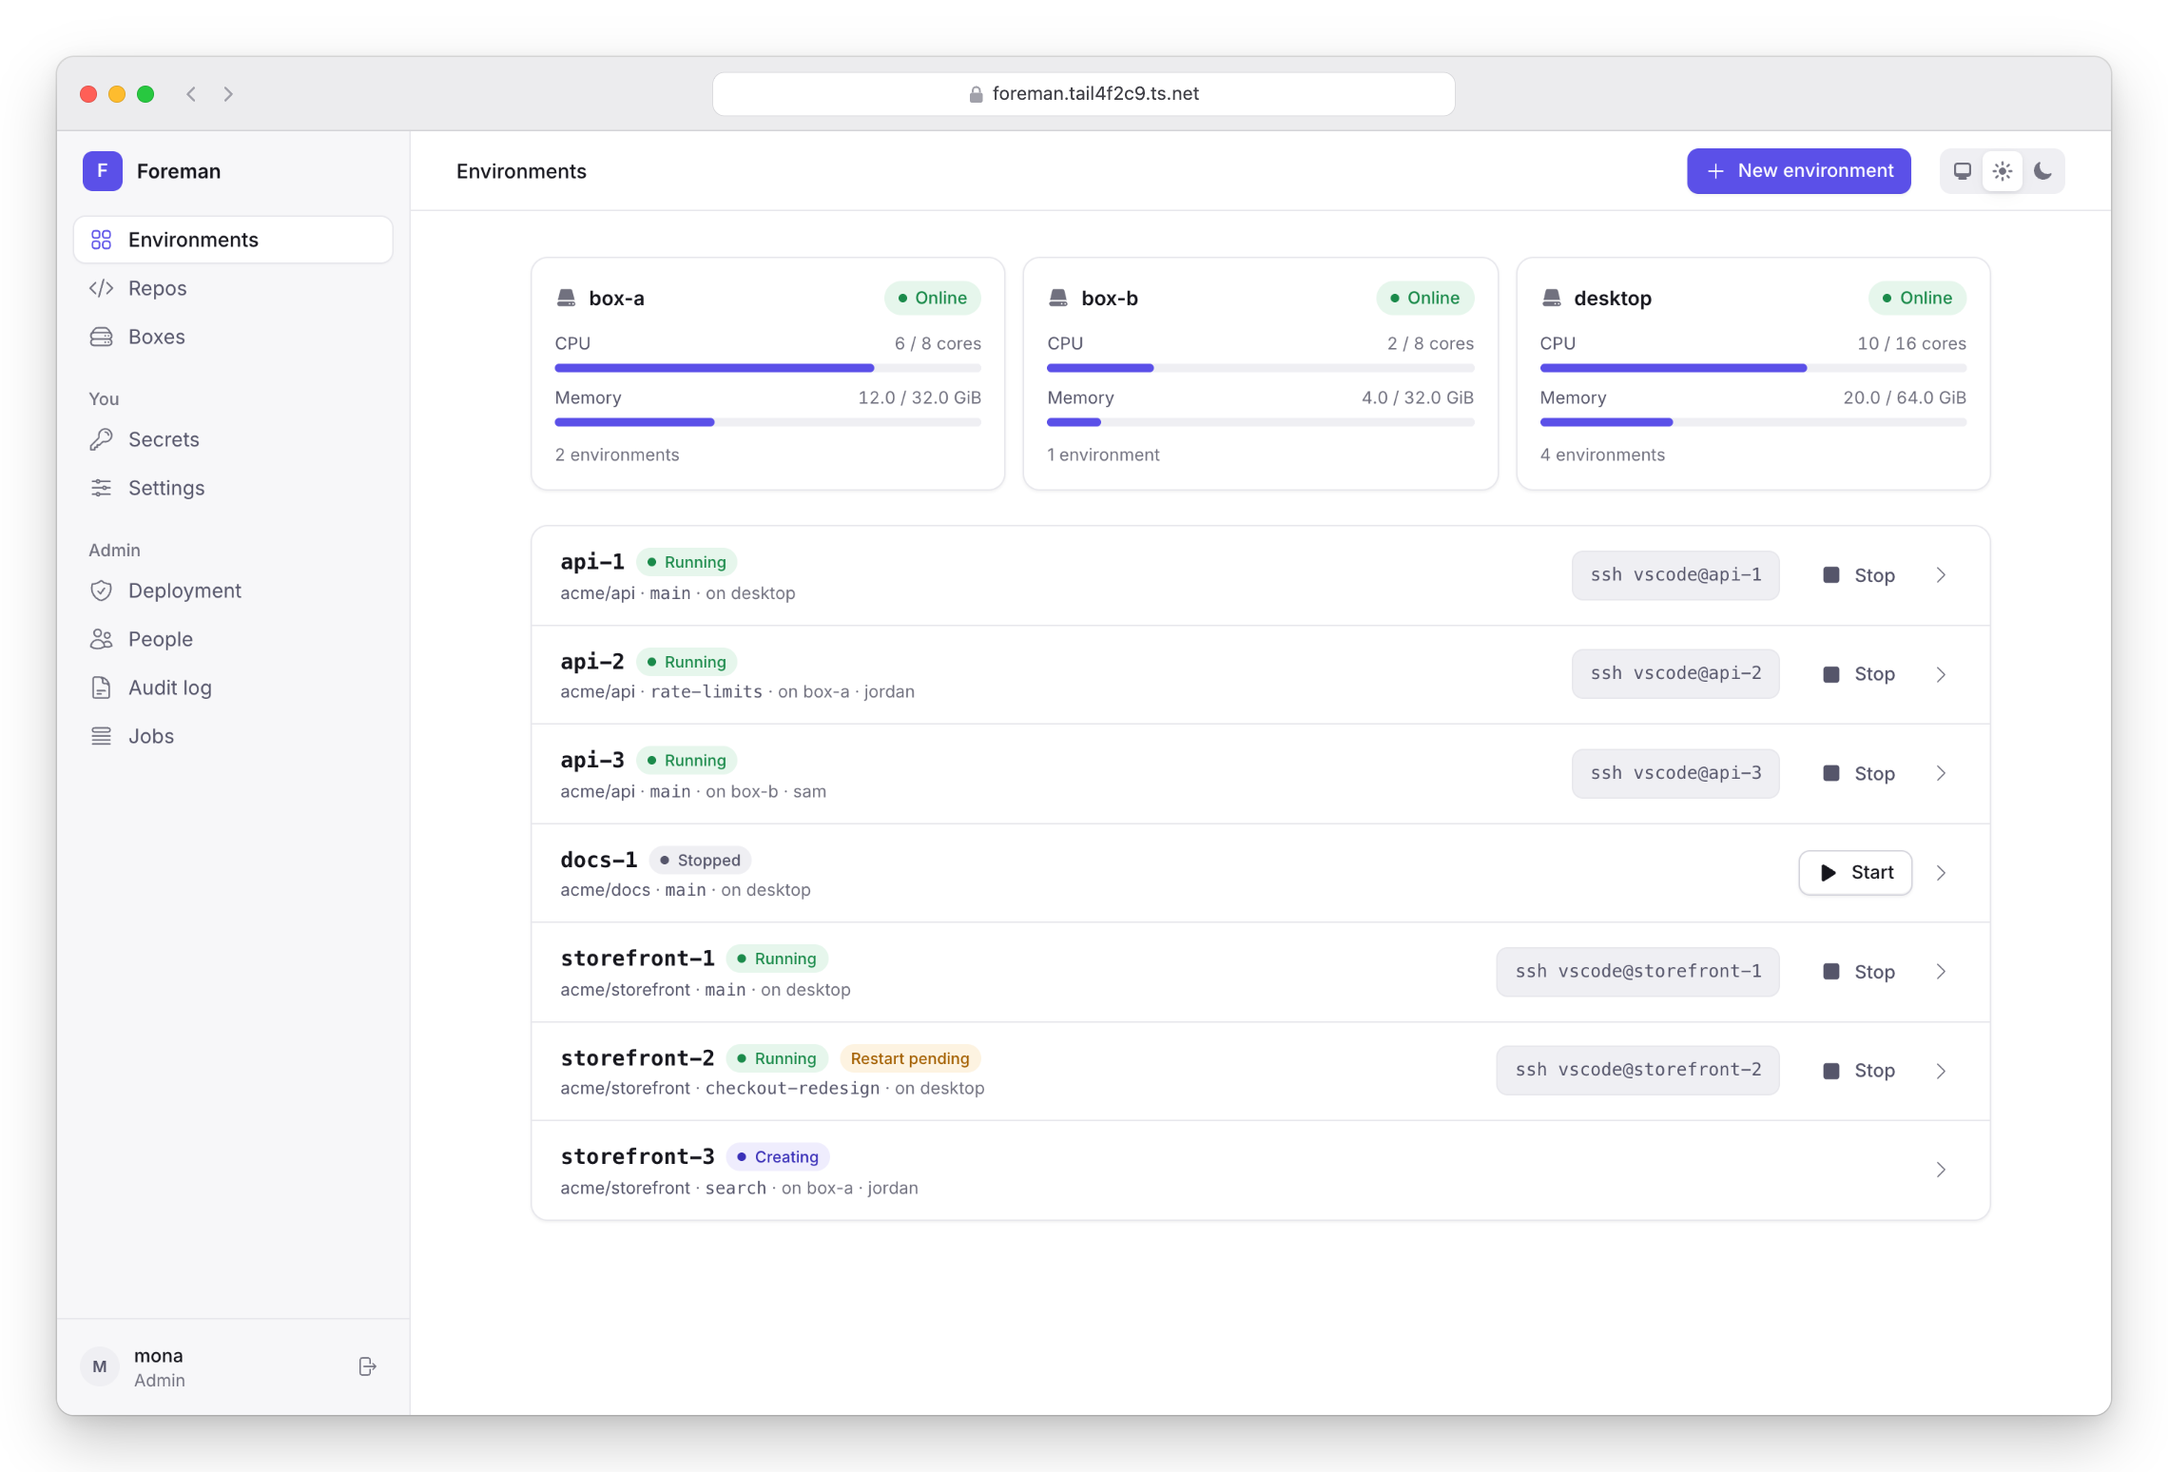
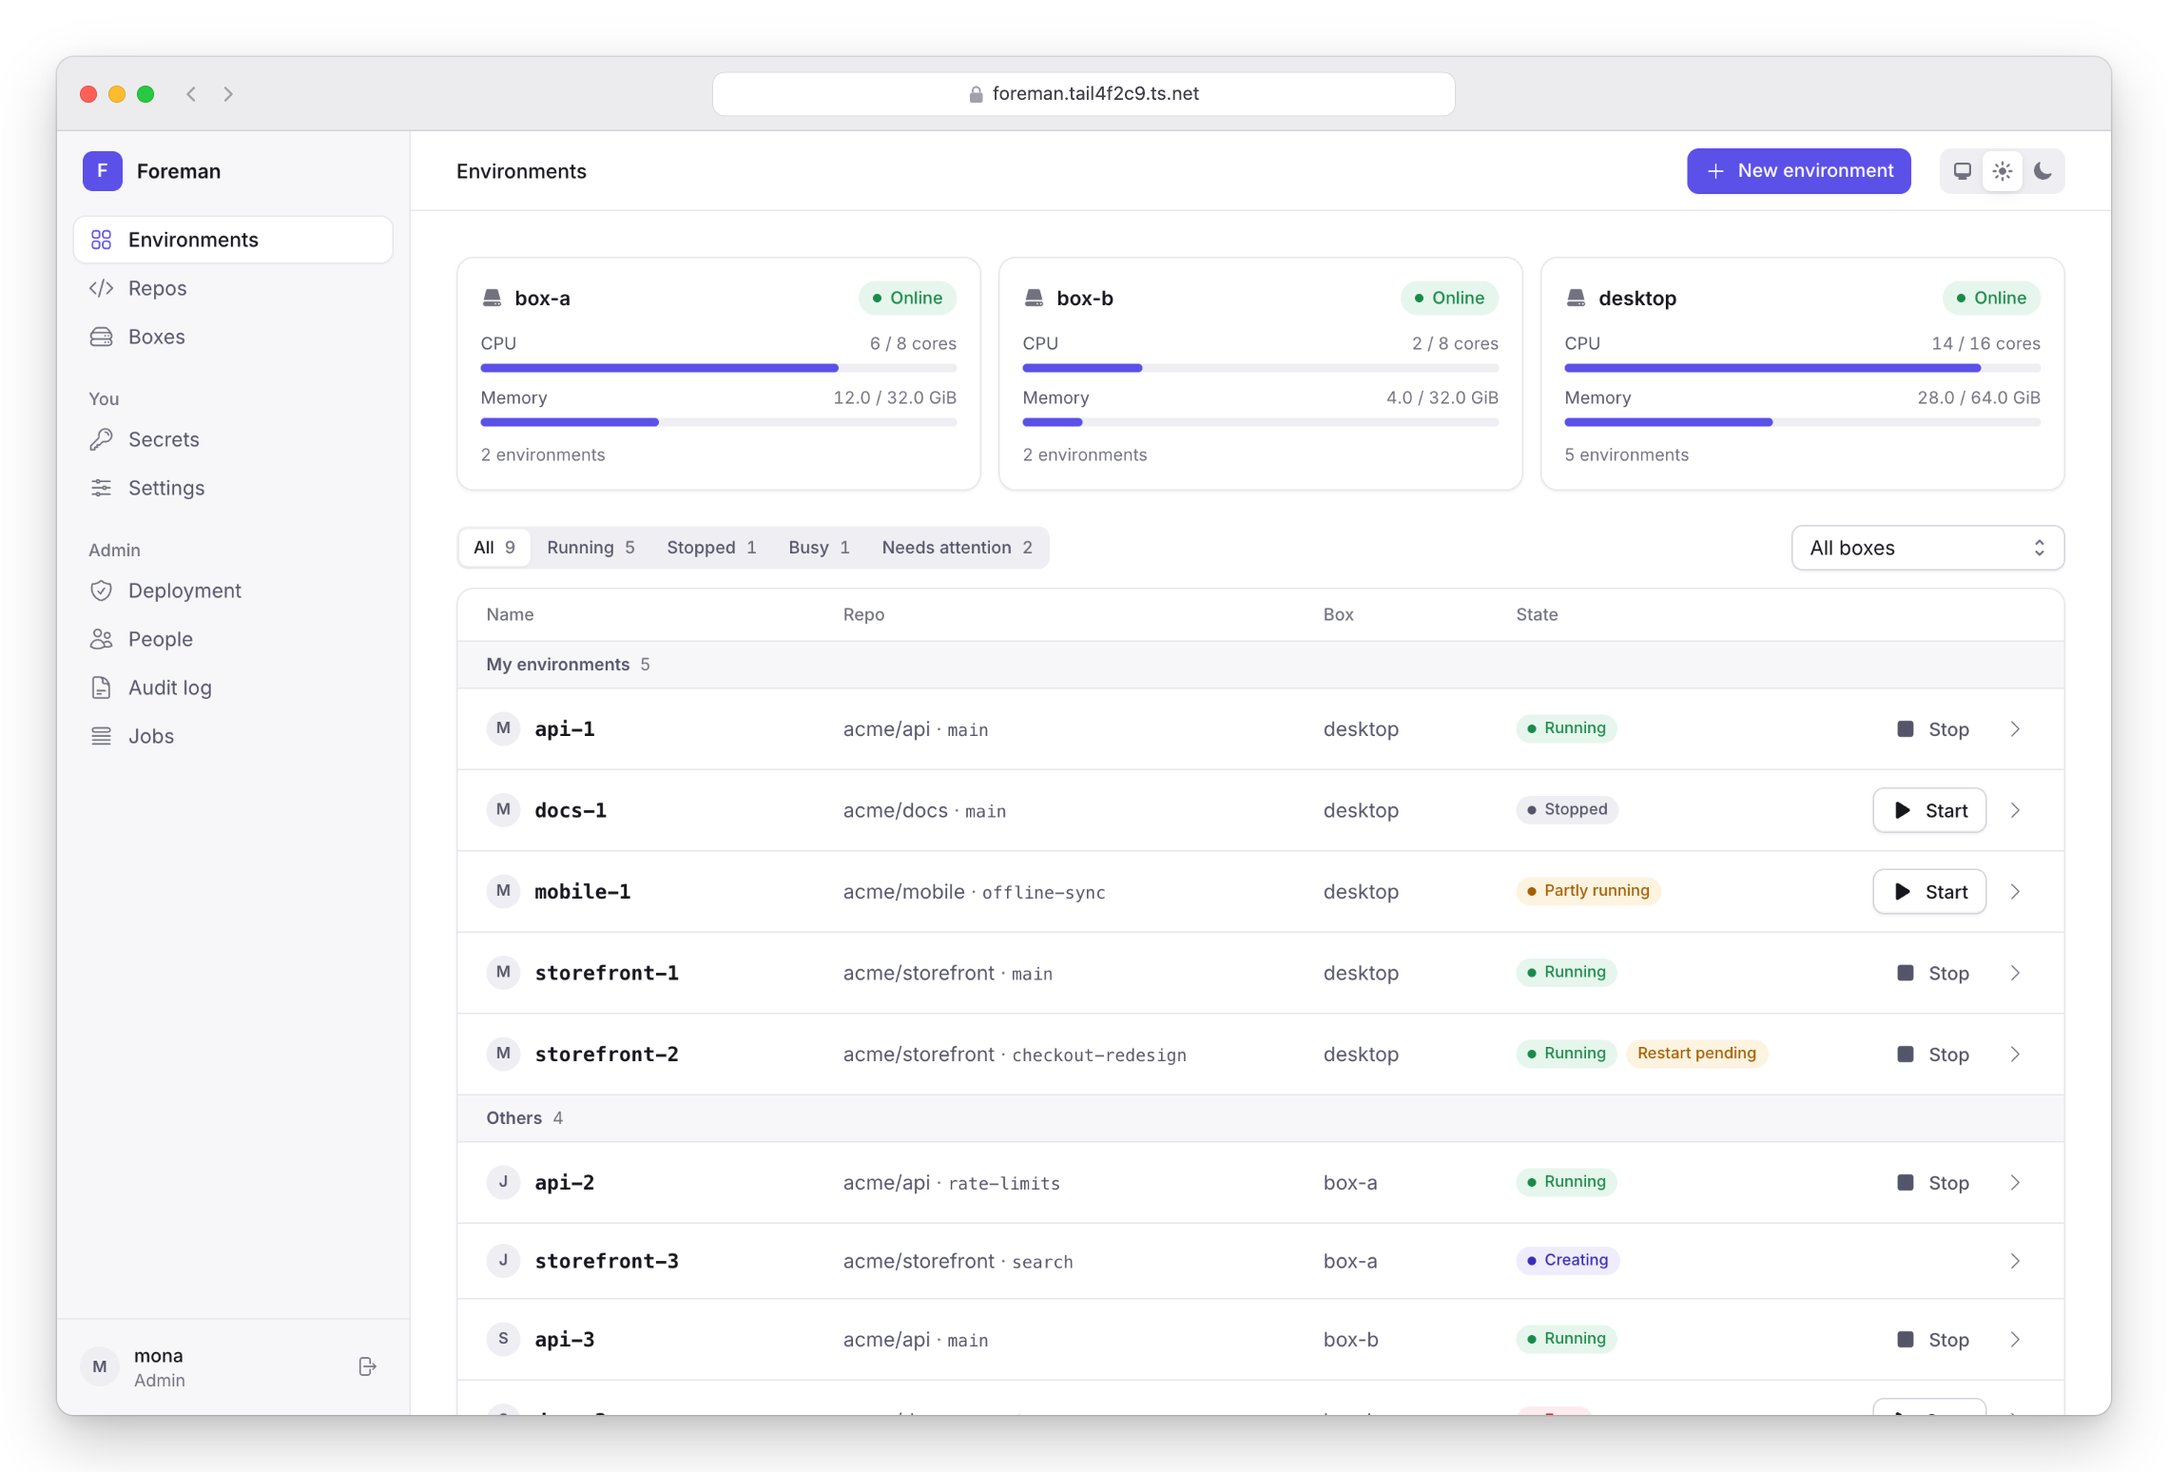
Refresh the README and its screenshots
The screenshots show the new environment list and the environment
page's Actions menu. The demo turns the update check off so they don't
carry an update banner.

The README reads as prose now, without the mermaid diagram, the layout
section or the development notes. Those notes move to
docs/development.md.

diff --git a/README.md b/README.md
@@ -1,93 +1,104 @@
 # Foreman
 
-A self-hosted replacement for GitHub Codespaces. Pick a repo with a
-compose-based devcontainer, pick one of your own machines, and Foreman
-clones it, builds the devcontainer, delivers its secrets and joins it to
-your tailnet. Run as many copies of a repo side by side as you like;
-nothing publishes ports.
+Foreman is a self-hosted stand-in for GitHub Codespaces. You point it at a
+repo with a compose-based devcontainer and one of your own machines. It
+clones the repo there, builds the devcontainer, hands it its secrets and
+puts it on your tailnet. Run as many copies of the same repo side by side
+as you like. None of them publish a port.
 
 <picture>
   <source media="(prefers-color-scheme: dark)" srcset="docs/images/environments-dark.png">
-  <img alt="The Environments page: three boxes with CPU and memory bars, and seven environments across them, running, stopped, creating, and one waiting on a restart" src="docs/images/environments-light.png">
+  <img alt="The Environments page: three boxes with CPU and memory bars, a state filter and a box filter, and nine environments in a table, the signed-in user's under My environments and the rest under Others, each with its owner's avatar, box and state" src="docs/images/environments-light.png">
 </picture>
 
-```mermaid
-flowchart TB
-    browser["Browser"] -->|LiveView| cp["Control plane<br>Phoenix, tailnet-only<br>SQLite or Postgres"]
-    cp <-->|"WebSocket<br>agents dial out<br>ed25519-signed"| desktop["agent (desktop)"]
-    cp <--> boxa["agent (box-a)"]
-    cp <--> boxb["agent (box-b)"]
-    desktop -->|"Docker + @devcontainers/cli"| envs["environments"]
-    envs -->|tailscaled| tailnet(("tailnet"))
-    laptops["laptops<br>ssh, editors, browsers"] --> tailnet
-```
+## How it works
 
-- **Control plane** (`apps/foreman`): Phoenix + LiveView. Owns users,
-  repos, boxes, environments, secrets and the audit log.
-- **Agent** (`apps/foreman_agent`): an Elixir release on each box. Dials
-  out to the control plane, runs `git`, `docker compose` and the
-  devcontainer CLI, and updates itself.
-- **Protocol** (`apps/foreman_protocol`): the commands and events between
-  them, validated by the same code on both sides.
-- **Feature** (`features/src/foreman`): a devcontainer feature the agent
-  adds to every environment: Tailscale (with Tailscale SSH), the secrets
-  shell hook, git identity and a GitHub credential helper.
+The control plane (`apps/foreman`) is a Phoenix app you reach only over
+your tailnet. It's what you use in the browser, and it keeps track of
+users, repos, boxes, environments, secrets and the audit log. It runs on
+SQLite for one person or Postgres for a team.
 
-The design, and the decisions behind it, are in
-[docs/architecture.md](docs/architecture.md). The security model is in
-[docs/security.md](docs/security.md).
+A machine that hosts environments is a box, and it runs the agent
+(`apps/foreman_agent`), an Elixir release. The agent dials out to the
+control plane over a WebSocket, so boxes need no open ports, and every
+message is signed with ed25519. When the control plane asks for an
+environment, the agent brings it up with `git`, `docker compose` and the
+devcontainer CLI. It updates itself when a new release comes out.
 
-## What it does
+On top of each repo's own config, Foreman adds a devcontainer feature
+(`features/src/foreman`). It installs Tailscale with Tailscale SSH, the
+shell hook that loads secrets, your git identity and a credential helper
+for GitHub. Your laptop reaches an environment over the tailnet, by name,
+with ssh, an editor or a browser.
 
-- Environments from any repo the GitHub App can see that has a
-  compose-based devcontainer. Named `<repo>-<n>` (personal) or
-  `<repo>-<login>-<n>` (team), and that name is the compose project,
-  the Tailscale hostname and `ssh <user>@<name>`.
-- Secrets at four scopes (owner, repo, user, environment), encrypted at
-  rest, write-only in the UI, delivered to a tmpfs on the box and loaded
-  by login shells. Changing one updates new shells immediately and offers
-  **Restart affected**, **Restart all** or **Later**.
-- A GitHub token per environment, scoped to its repo by default (a repo
-  can opt out to the user's own token), refreshed every few hours.
-- Git identity and dotfiles per user, overridable per repo.
-- Environments run unprivileged. Privileged containers (including
-  docker-in-docker), host namespaces, the Docker socket and host mounts
-  are refused, checked against features as well as the repo's own
-  files. A box can open one up as an exception, and the control plane
-  shows it with a red alert. Services go in the compose file as
-  sidecars instead; see
-  [docs/setup/repos.md](docs/setup/repos.md#docker-inside-an-environment).
-- Pairing clients from the environment's page. A devcontainer feature
-  can install a connect hook (Orca's does), and the page then shows a
-  pairing code or QR code to the environment's owner, once. See
-  [docs/setup/connect-hooks.md](docs/setup/connect-hooks.md).
-- Capacity reporting per box: used and provisioned CPU and memory, with
-  contention warnings. Boxes allow overcommit by default and can be set
-  to warn or refuse.
-- Boxes enroll with a one-time token, survive reboots (the control plane
-  restores secrets and restarts environments), and update their agents
-  from signed releases. A release is one tag: control plane images on
-  GHCR that carry the matching agents, which boxes then follow.
+The commands and events the two sides exchange live in
+`apps/foreman_protocol`, so both ends validate messages with the same code.
 
-An environment right after one of its secrets changed. New shells
-already have the new value; running services keep the old one until you
-pick a restart.
+[docs/architecture.md](docs/architecture.md) explains the design and why
+it's built that way. [docs/security.md](docs/security.md) covers the
+security model.
+
+## What you get
+
+Any repo the GitHub App can see that has a compose-based devcontainer can
+become an environment. Environments are named `<repo>-<n>` on a personal
+setup or `<repo>-<login>-<n>` on a team one. That one name is the compose
+project, the Tailscale hostname and what you type after `ssh <user>@`.
+
+Secrets come at four levels: owner, repo, user and environment. They're
+encrypted at rest and can't be read back in the UI. On the box they land
+on a tmpfs, and login shells load them from there. When one changes, new
+shells see it right away and Foreman asks whether to restart the affected
+services, restart everything, or leave it for later.
+
+Each environment gets its own GitHub token, scoped to its repo, and
+Foreman refreshes it every few hours. A repo can opt to use the person's
+own token instead. Git identity and dotfiles are set per person, with
+per-repo overrides.
+
+Environments run unprivileged. Foreman refuses privileged containers
+(docker-in-docker included), host namespaces, the Docker socket and host
+mounts, and it checks devcontainer features as well as the repo's own
+files. A box can allow one of these as an exception, and the control
+plane flags that box in red. Anything that needs its own daemon belongs
+in the compose file as a sidecar;
+[docs/setup/repos.md](docs/setup/repos.md#docker-inside-an-environment)
+shows how.
+
+A devcontainer feature can ship a connect hook (Orca's does). The
+environment page then shows the owner a pairing code or QR code, once.
+See [docs/setup/connect-hooks.md](docs/setup/connect-hooks.md).
+
+Boxes report used and provisioned CPU and memory and warn about
+contention. They allow overcommit by default and can be set to warn or
+refuse instead. A box joins with a one-time token. After a reboot the
+control plane puts its secrets back and restarts its environments. Boxes
+update their agents from signed releases, and a release is a single tag:
+it builds the control plane images on GHCR with the matching agents
+inside, and the boxes follow.
+
+## A look around
+
+An environment just after one of its secrets changed. New shells already
+have the new value. Running services keep the old one until you pick a
+restart.
 
 <picture>
   <source media="(prefers-color-scheme: dark)" srcset="docs/images/environment-dark.png">
-  <img alt="An environment page: a Secrets changed callout with Restart affected, Restart all and Later, the Tailscale SSH command, an Open in VS Code button, and the create log" src="docs/images/environment-light.png">
+  <img alt="An environment page: Stop and an Actions menu in the header, a Secrets changed callout with Restart affected, Restart all and Later, the Tailscale SSH command, and Open in VS Code and Open in Zed buttons" src="docs/images/environment-light.png">
 </picture>
 
-Boxes, with live CPU and memory trends next to what's provisioned.
+The Boxes page puts live CPU and memory trends next to what's provisioned.
 
 <picture>
   <source media="(prefers-color-scheme: dark)" srcset="docs/images/boxes-dark.png">
   <img alt="The Boxes page: three online boxes, each with a live CPU and memory trend line and provisioned CPU and memory bars" src="docs/images/boxes-light.png">
 </picture>
 
-A box over the last day: CPU and memory as the box total over each
-environment's share, disk, and load against the core count. Ranges run
-from 15 minutes to 7 days, and the charts update every 5 seconds.
+A box over the last day. CPU and memory stack each environment's share
+under the box total. Disk sits next to them, and load is drawn against the
+core count. Ranges go from 15 minutes to 7 days, and the charts update
+every 5 seconds.
 
 <picture>
   <source media="(prefers-color-scheme: dark)" srcset="docs/images/box-dark.png">
@@ -101,12 +112,12 @@ Your own secrets. Values are encrypted and can't be read back.
   <img alt="The Secrets page: two secrets with Replace and delete, and a form to add one, optionally limited to some repos" src="docs/images/secrets-light.png">
 </picture>
 
-The screenshots use made-up data; `e2e/demo.exs` and
-`e2e/screenshots.mjs` regenerate them (see [e2e/README.md](e2e/README.md)).
+The screenshots use made-up data. `e2e/demo.exs` and `e2e/screenshots.mjs`
+regenerate them; see [e2e/README.md](e2e/README.md).
 
 ## Running it
 
-| | |
+| Setup | Guide |
 |---|---|
 | Personal (a Linux desktop, SQLite) | [docs/setup/personal.md](docs/setup/personal.md) |
 | Team (EC2 + Postgres/Neon, a box per developer) | [docs/setup/team.md](docs/setup/team.md) |
@@ -115,47 +126,3 @@ The screenshots use made-up data; `e2e/demo.exs` and
 | Tailscale | [docs/setup/tailscale.md](docs/setup/tailscale.md) |
 | Private registry (GHCR) credentials | [docs/setup/ghcr-machine-user.md](docs/setup/ghcr-machine-user.md) |
 | Moving a repo off Codespaces | [docs/setup/repos.md](docs/setup/repos.md) |
-
-## Developing
-
-Tool versions are in `mise.toml` (Erlang 29, Elixir 1.20, Node 22).
-
-```sh
-mise install
-
-# Control plane (SQLite by default; FOREMAN_DB=postgres for Postgres)
-cd apps/foreman
-mix setup
-mix phx.server          # http://localhost:4000, with a dev sign-in
-
-# Agent, against a local control plane and Docker Desktop
-cd apps/foreman_agent
-FOREMAN_URL=http://localhost:4000 FOREMAN_JOIN_TOKEN=fj_... mix run --no-halt
-```
-
-Each app has `mix precommit` (format, credo, tests; sobelow too for the
-control plane).
-
-### Tests
-
-| | |
-|---|---|
-| `cd apps/foreman_protocol && mix test` | Message contracts, signatures, redaction |
-| `cd apps/foreman_agent && mix test` | Agent logic with fakes for Docker and the CLIs |
-| `cd apps/foreman_agent && mix test --only docker` | The agent against real Docker and the devcontainer CLI: two copies side by side, secrets, restart affected, rebuild, pull and rebuild, destroy, a tampered compose file and a feature asking for privileged both refused |
-| `cd apps/foreman && mix test` | Control plane (run with `FOREMAN_DB=postgres` too) |
-| `devcontainer features test ... features` | The feature in a real devcontainer |
-| `e2e/` | Full runs through the UI and on an emulated Linux box; see [e2e/README.md](e2e/README.md) |
-
-## Layout
-
-```
-apps/
-  foreman/            Phoenix control plane
-  foreman_agent/      agent release
-  foreman_protocol/   shared commands, events, auth and redaction
-features/src/foreman  the devcontainer feature
-docker/               release images (control plane, emulated box)
-e2e/                  end-to-end runs
-docs/                 architecture, security, setup
-```

diff --git a/docs/development.md b/docs/development.md
@@ -1,0 +1,34 @@
+# Developing Foreman
+
+Tool versions are in `mise.toml` (Erlang 29, Elixir 1.20, Node 22).
+
+```sh
+mise install
+
+# Control plane (SQLite by default; FOREMAN_DB=postgres for Postgres)
+cd apps/foreman
+mix setup
+mix phx.server          # http://localhost:4000, with a dev sign-in
+
+# Agent, against a local control plane and Docker Desktop
+cd apps/foreman_agent
+FOREMAN_URL=http://localhost:4000 FOREMAN_JOIN_TOKEN=fj_... mix run --no-halt
+```
+
+Each app has `mix precommit`, which formats and runs credo and the tests.
+The control plane's runs sobelow as well.
+
+## Tests
+
+| Command | What it covers |
+|---|---|
+| `cd apps/foreman_protocol && mix test` | Message contracts, signatures, redaction |
+| `cd apps/foreman_agent && mix test` | Agent logic with fakes for Docker and the CLIs |
+| `cd apps/foreman_agent && mix test --only docker` | The agent against real Docker and the devcontainer CLI: two copies side by side, secrets, restart affected, rebuild, pull and rebuild and destroy, plus refusing a tampered compose file and a feature that asks for privileged |
+| `cd apps/foreman && mix test` | Control plane (run with `FOREMAN_DB=postgres` too) |
+| `devcontainer features test ... features` | The feature in a real devcontainer |
+| `e2e/` | Full runs through the UI and on an emulated Linux box; see [e2e/README.md](../e2e/README.md) |
+
+The README screenshots come from `e2e/demo.exs`, a control plane full of
+made-up data, and `e2e/screenshots.mjs`; see
+[e2e/README.md](../e2e/README.md#readme-screenshots).

diff --git a/e2e/README.md b/e2e/README.md
@@ -100,7 +100,7 @@ If VS Code is installed, it pauses before destroying the environment so you can 
 `demo.exs` starts a dev control plane on its own database
 (`tmp/demo`) with made-up boxes, repos and environments. Stand-in agent
 processes keep the boxes online; nothing touches Docker, GitHub or a
-tailnet. `screenshots.mjs` captures four pages in light and dark at 2x
+tailnet. `screenshots.mjs` captures five pages in light and dark at 2x
 and frames each in a browser window, writing `docs/images/`.
 
 ```sh
@@ -108,3 +108,6 @@ cd apps/foreman
 PORT=4100 mix run --no-start ../../e2e/demo.exs &
 cd ../.. && node e2e/screenshots.mjs
 ```
+
+`DEMO=personal` seeds one person on one box instead, in `tmp/demo-personal`,
+for the simpler views a personal instance gets.
